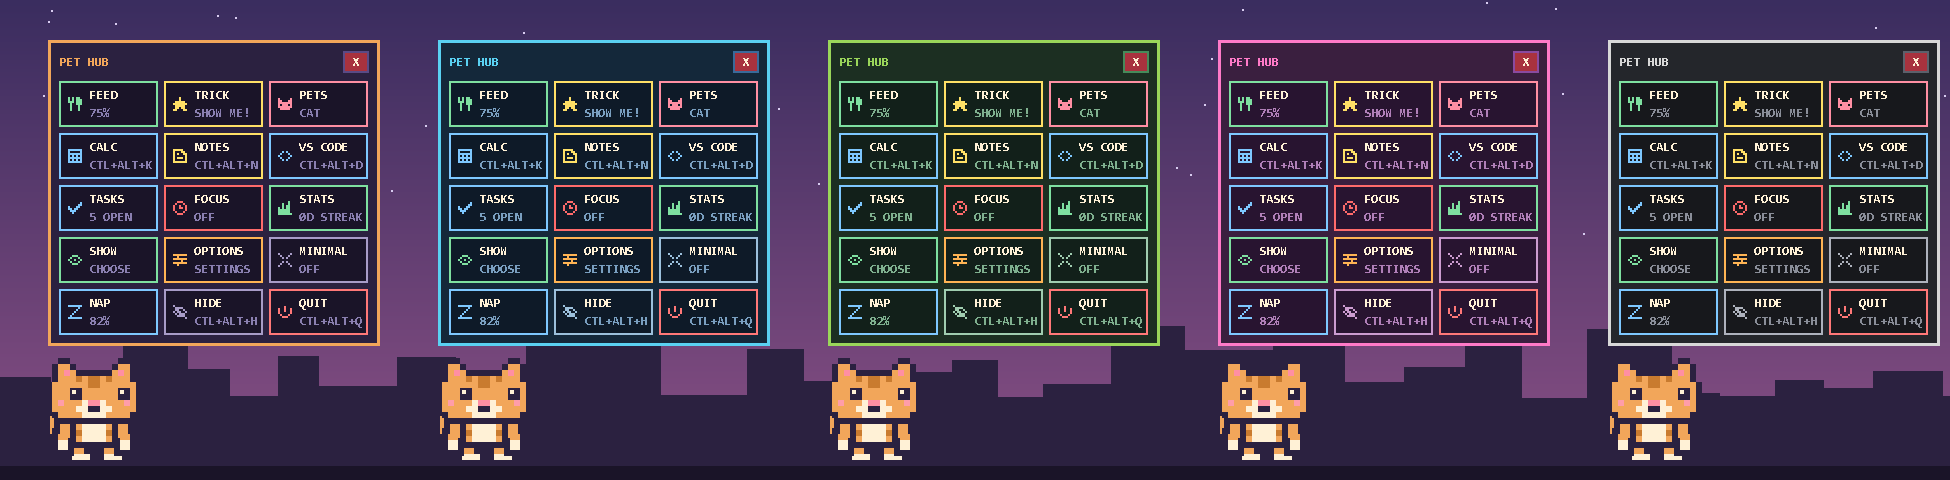
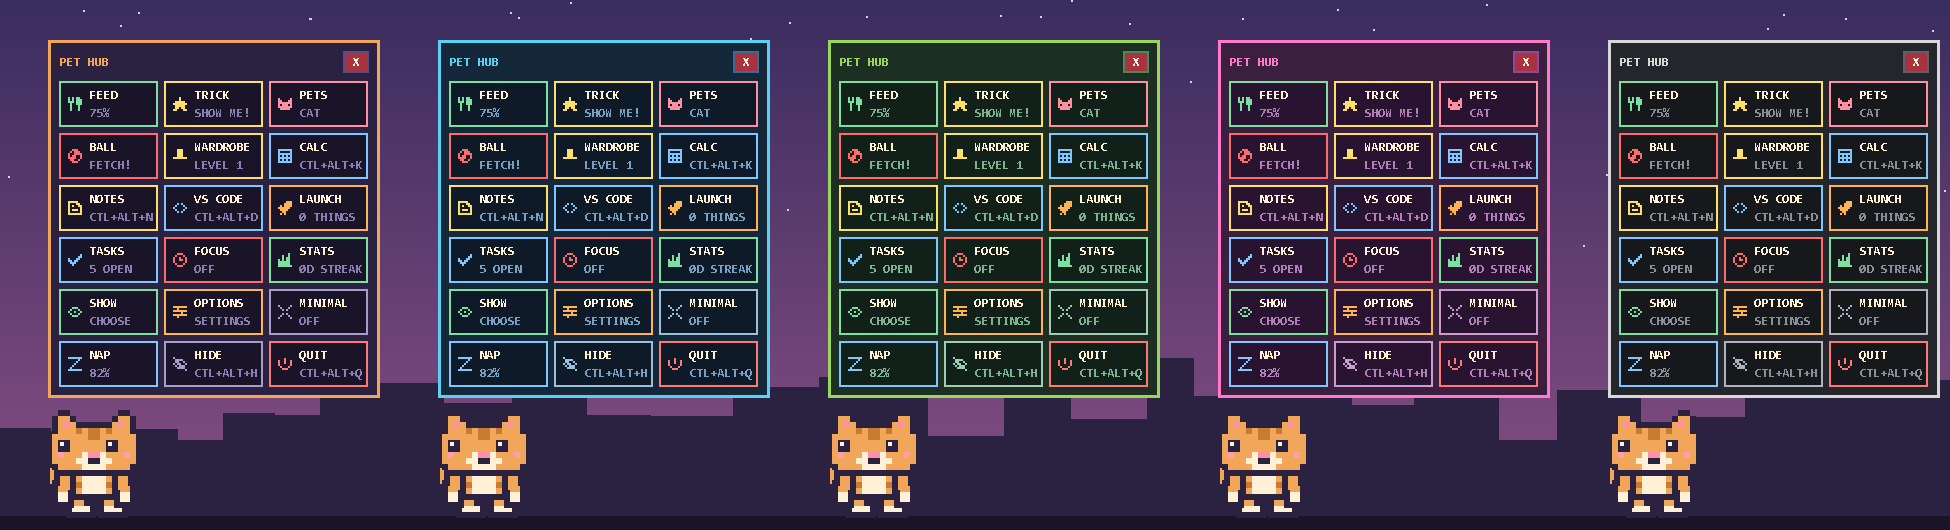
Docs: coding buddy, ball, friend, hats, quick launch and changeable keys
With fresh pictures of the hub.

Changed region(s): [[0.0, 0.0625, 1.0, 0.9688]]

diff --git a/README.md b/README.md
@@ -16,15 +16,20 @@ Free and open source. One 1.8 MB exe, no installer, no account, no telemetry.
 - **A live pet.** It walks around on its own legs (or wheels), does random tricks, gets hungry, and dozes off when nobody touches it.
 - **Hands on.** Stroke it, click to hit it (it goes dizzy, then flies), pull it until it stretches, pick it up and throw it.
 - **Feed it.** Pizza and coffee for people, fish for the cat, fuel and nitro for the car. Coffee and nitro make it run.
-- **Quick tools.** A calculator, five pages of notes saved as you type, and VS Code, one right-click away.
-- **Dances to your music.** It reads Windows' loudness meters (never the sound itself) and moves on the beat.
+- **Quick tools.** A calculator, five pages of notes saved as you type, VS Code, and a quick launch list of your own apps, folders and links (drop them on the pet).
+- **Coding buddy.** Types along when you do, thinks while Claude Code works, and tells you when it is done or asks something. It never sees what you type.
+- **Plays with you.** Throw the ball and it fetches. Give it a friend and they visit, dance and chase each other.
+- **Levels and hats.** Looking after it earns experience; levels unlock hats.
+- **Knows your PC.** Sweats under load, droops when the battery is low, perks up when plugged in.
+- **Walks on your windows** if you let it: climbs up, rides along, and falls when you close one.
+- **Dances to your music.** It reads Windows' loudness meters (never the sound itself) and moves on the beat. The hub shows what is playing, with play, pause and skip.
 - **Walks to your other monitors.** Side by side or stacked, landscape or portrait: it walks across, climbs stairs or a ladder, jumps off the edge or floats down under an umbrella.
 - **Shows what you choose.** Right-click, **Show**, and tick what you want to see; untick everything for just the pet.
 - **Gets out of the way.** Hides for fullscreen apps, games, film players, streaming sites and any program you add, never steals focus. Always-on-top and click-through are up to you.
 - **Minimal mode.** A half-size pet that keeps quiet and only speaks up for your reminders and focus timer; hover for the numbers.
 - **Tray icon.** Hover for network, CPU and memory; click to hide or show the pet, right-click for the hub.
 - **Sixteen pets, five themes.** Cat, Dog, Mochi, Agent, Super Car, Robot, Penguin, Dino, Ghost, Ninja, Astronaut, Bunny, Frog, UFO, Coder, Truck; Night, Ocean, Forest, Candy, Mono.
-- **As lively as you like.** Walking, random tricks, gravity, what a left click does and when it falls asleep are all options.
+- **As lively as you like.** Walking, random tricks, gravity, sounds, what a left click does and when it falls asleep are all options.
 
 | Tasks | Stats | Hub |
 |---|---|---|
@@ -44,8 +49,8 @@ Measured on Windows 11 (Core i9-13900H), pet idle with the info bubble on, sampl
 | Memory | about 17.6 MB working set (4 MB private) |
 | CPU | about 0.02% |
 
-Those numbers are from before the pets could move. An animated pet takes more: roughly 1 to 2% of one CPU core
-while it walks and plays, and the exe is 2.1 MB.
+Those numbers are from before the pets could move. On another PC an animated pet takes about 0.6% of one CPU core
+standing and 2% walking and playing; a friend doubles that. The exe is 2.5 MB.
 
 ![Terminal sampling pixel-pet.exe for a minute](media/resource-usage.png)
 
@@ -59,6 +64,8 @@ The app is not code-signed yet, so Windows SmartScreen may warn on first run: ch
 To uninstall, close the pet, delete the exe and the files starting with `pixel-pet` in `%APPDATA%`.
 
 ## Hotkeys
+
+All of them can be changed under **Options > Windows > Shortcut keys**.
 
 | Keys | Action |
 |---|---|
@@ -77,7 +84,9 @@ To uninstall, close the pet, delete the exe and the files starting with `pixel-p
 ## Privacy
 
 Everything stays on your PC. There is no account and no telemetry, and the app makes no network
-connections: the speed bubble only reads Windows' own traffic counters. Settings and data live in
+connections: the speed bubble only reads Windows' own traffic counters. The coding buddy reads Claude Code's log on
+your PC to see who spoke last, window titles are only compared with a list of film sites, and links in your quick
+launch open in your own browser. Settings and data live in
 `%APPDATA%`.
 
 ## Build from source
@@ -92,8 +101,8 @@ cargo build --release
 `scripts\package.ps1` runs the tests, builds the release exe and zips it into `dist\`.
 
 The code is plain Win32 and GDI with two dependencies (`windows-sys`, `ruzstd`). Start at `src/main.rs`;
-pets are small pixel grids in `src/cast.rs`, their movements are in `src/anim.rs` and their food in `src/food.rs`, so a new
-pet, trick or snack is a good first contribution. `PET_SHEET=folder cargo test contact_sheet -- --ignored` draws them all.
+pets are small pixel grids in `src/cast.rs`, their movements are in `src/anim.rs`, their food in `src/food.rs` and
+their hats in `src/wardrobe.rs`, so a new pet, trick, snack or hat is a good first contribution. `PET_SHEET=folder cargo test contact_sheet -- --ignored` draws them all.
 
 ## Licence
 
